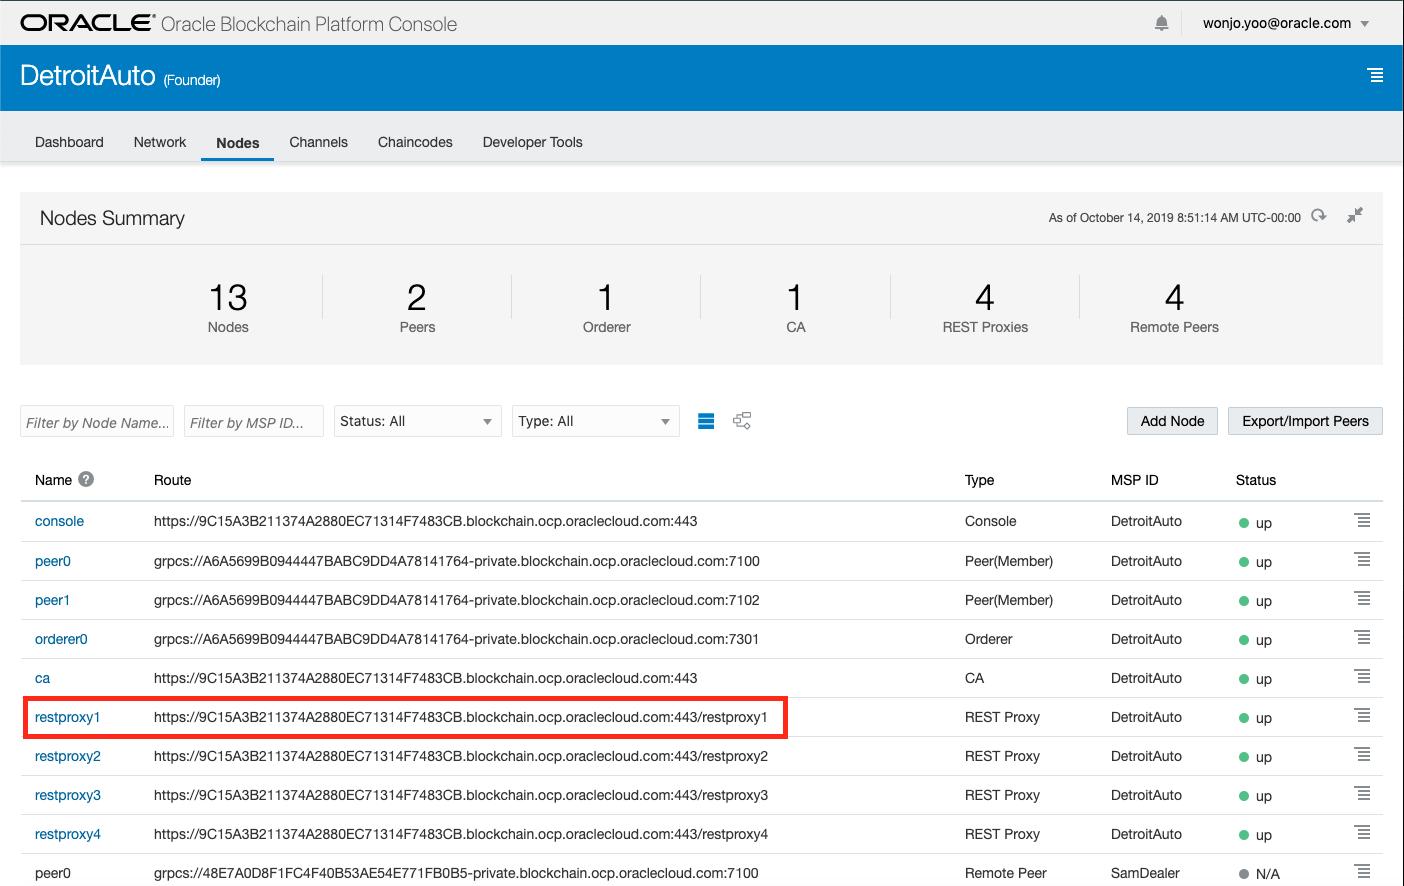
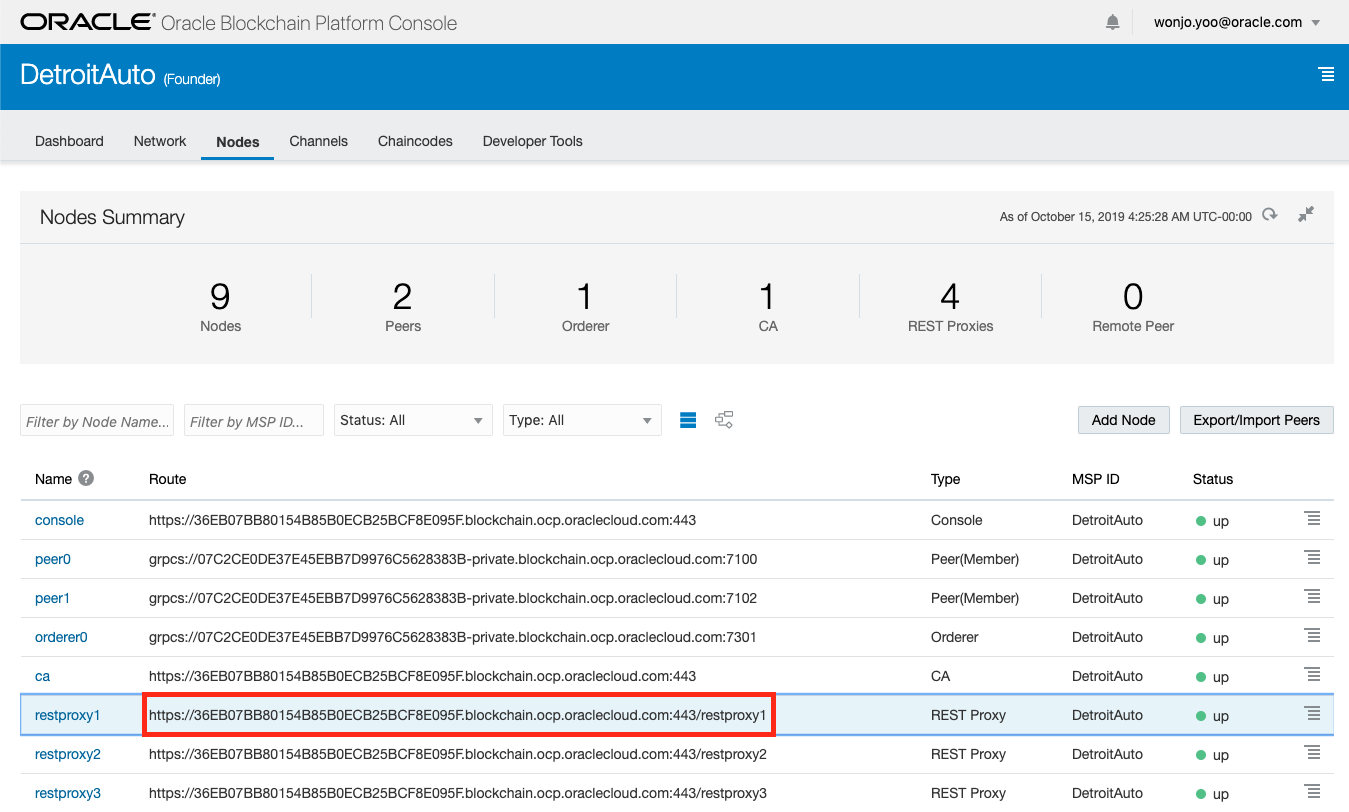
update

diff --git a/CarDealerLab/invoke_blockchain.md b/CarDealerLab/invoke_blockchain.md
@@ -10,6 +10,11 @@
     이 App은 제조업체인 Detroit와 파트너 업체인 Sam Dealer, Jude Dealer에서 사용하는 Vehicle Trace Dashboard 입니다. 이 App은 각각 Org의 Chaincode에 접근해서 해당 채널에 배포된 Ledger로 부터 Query를 해오고, 다른 업체로 부품을 전달하는 Transaction을 수행할 수 있는 기능을 제공합니다.
   
    딜러들은 거래를 제조업체와 공유하는 비공개 채널로 푸시합니다. "carTrace"이라는 Smart Contract(체인코드)에 의해 실행됩니다. 이 Smart Contract은 컨소시엄의 허가된 원장에 대한 모든 상태를 관할합니다. 해당 대리점의 "차량 추적 대시 보드"를 열고 포함된 부품 및 차량을 쿼리 할 때 사용하십시오.
+
+   이 Application의 호출 구조는 다음과 같습니다.
+
+        Node.js App --> Rest URL (DetroitAuto) --> peer의 Chaincode
+
 2. Application Tab 설명
    1. Add Part : 부품 입력
    2. Add Car : 차량 입력
@@ -19,37 +24,35 @@
    
 ### 2. 블록체인에 접속하기 위한 설정을 합니다.
 
-1) 화면 상단 우측의 아이콘을 클릭합니다.
-    ![](images/sample_app_setup1.png)
-
-2) 기존에 디폴트로 설정이 되어 있는 것을 확인합니다.
-    - REST Proxy Endpoint : REST API 주소입니다. 이 정보는 Founder Console(DetroitAuto) 에서 확인할 수 있습니다. 
-        - (Oracle Blockchain Cloud Service의 경우: `https://62C57E2D8944EBB48B1E6C5A28A461.blockchain.ocp.oraclecloud.com:443/restproxy`)
-    - Channel Name : 접속하고자 하는 채널 이름입니다. (예: **samchannel**, **judechannel**)
-    - UserName : 접속 아이디 (예: obpuser1)
-    - Password : 접속 패스워드 (예: `welcome1`)
-
-    지금은 수정할 내용이 없습니다.
-    현재 접속하는 Org는 DetroitAuto이고 Rest API도 DetroitAuto에 있는 것을 통해, samchannel을 사용한다는 것을 의미합니다.
-
-3) 다음과 같이 제목이 samchannel 인 것을 알 수 있습니다.
+3) 다음과 같이 현재 설정된 채널이 samchannel 인 것을 알 수 있습니다.
     ![](images/sample_app_setup2.png)
 
-4) 다음 정보를 넣고 쿼리를 해보세요. 
+1) Add Car, Add Part 탭에서 부품을 추가하거나 차량을 추가해서 다양한 테스트를 수행해 봅니다.<br>
+DetroitAuto에서 Airbag 부품(Part) 를 추가하고 SamDealer로 부품을 옮기는 Transaction 을 수행해보도록 하겠습니다.
+먼저 Add Part에서 airtbag 부품을 하나 입력해봅니다. 일련번호를 1111 이라고 입력하겠습니다.
+    ![](images/example1.png)
+2) 정상적으로 입력이 되면, Trace탭에서 조회를 할 수 있습니다. 일련번호 1111을 입력한 후 Query버튼을 누릅니다. <br>해당 내역이 조회가 되고 오른쪽에 json형태로 반환이 되는 것을 확인할 수 있습니다. 이 부분은 해당 key값을 갖고 있는 entity의 모든 변경 내역을 조회해서 json형태로 반환해주는 chaincode의 API를 호출한 결과입니다.
+    ![](images/example2.png)
 
-    참고 : 쉼표 ","를 사용하여 쿼리 필드에서 한 번에 여러 항목을 검색 할 수 있습니다.
+1) 이번에는 차량을 등록해 보도록 하겠습니다. car1234라는 일련번호를 입력하고, 제조사(manufacturer)에 DetroitAuto를 입력합니다. 나머지도 아래 그림과 동일하게 입력한 후 Add버튼을 누릅니다.
+    ![](images/example3.png)
 
-    에어백 일련 번호:
+1) 정상적으로 입력이 되면 Trace에서 내역을 확인할 수 있는데, 현재는 소유주(owner)가 DetroitAuto(제조사)에 있는 것을 확인할 수 있습니다.
+    ![](images/example4.png)
 
-    | abg1234, abg1235 |
-    | -- |
+1) Search 탭에서는 소유주(owner) 이름으로 조회할 수 있습니다.
+    ![](images/example5.png)
 
-    차량 번호:
+1) Transfer 탭에서 SamDealer로 소유주를 옮겨 보겠습니다. App내에서 DetroitAuto로 Login을 하기 위해 Company name을 detroitauto로 입력하고 비밀번호는 아무거나 입력한 후 Login버튼을 누릅니다.
+    ![](images/example6.png)
 
-    | dtrt10001, dtrt10002 |
-    | -- |
+1) chassis number of a vehicle 에 앞에서 생성한 차량번호 car1234를 입력하고 vehicle new owner에 SamDealer를 입력 한 후에 Transfer vehicle 버튼을 클릭합니다.
+    ![](images/example7.png)
+1) Chaincode의 returnCode로 정상 메세지인 Success가 반환된 것을 확인할 수 있습니다. Transaction ID로 같이 반환됩니다.
+    ![](images/example8.png)
+2) Trace탭에서 모든 내역들이 조회되는지 확인해보겠습니다. car1234를 입력하고 Query를 조회합니다. 이번에는 2개의 데이터가 조회된 것을 확인할 수 있습니다. 오른쪽에도 json형태로 두개의 transaction history가 모두 조회가 됩니다. 이처럼 blockchain에 데이터가 들어가게 되면 update를 하게 되더라도 모든 Transaction 내역은 남아 있고 삭제가 불가능하게 됩니다.
+    ![](images/example9.png)
 
-    위의 쿼리를 Jude Dealer의 대시 보드에서 수행하면 채널 프라이버시로 인해 결과가 조회되지 않습니다.
 
 ### 4. Jude Dealer의 채널로 접근합니다.
 
@@ -58,85 +61,33 @@
     - REST Proxy Endpoint : 변경하지 않습니다.
     - Channel Name : **judechannel**
     
-    ![](images/sample_app_setup3.png)
+    ![](images/jude_config.png)
 
 
-1) 다음과 같이 제목이 judechannel 로 바뀌었음을 알 수 있습니다.
-
-    ![](images/sample_app_setup4.png)
-
-1) 다음 정보를 넣고 쿼리를 해보세요. 
-   
-    VehiclePart 일련 번호 : 
-
-    | whl1241, win1242 | 
-    | -- |
-
-    > Detroit Auto Org 에서는 양쪽 채널의(samchannel, judechannel) 정보를 쿼리를 실행할 수 있습니다.
-
-
-2) 그리드에서 항목을 선택하면 해당 기록이 표시됩니다. 트랜잭션을 선택하면 항목의 내역 상태가 자세히 표시됩니다.
-
-    > 참고 : 그래프에는 현재 시간보다 45 일 이내에 실행된 트랜잭션만 표시됩니다. 최근 거래를 보려면 그래프의 현재 날짜로 스크롤해야 할 수 있습니다.
-
-    ![](images/sampleapp1.png)
-
------
-
-## B. Transaction 실행하기
-1. 다시 Sam Dealer의 samchannel 채널로 설정합니다. 화면 상단 우측의 아이콘을 클릭하여 Sam 이 사용하는 채널로 설정합니다.
-    - REST Proxy Endpoint : 위에서 설정한 동일 REST URL을 사용합니다.
-    - Channel Name : **samchannel**
-
-    ![](images/sample_app_setup5.png)
-
-
-
-2. "Vehicle Trace Dashboard"를 열고 **transfer**탭을 선택하여 트랜잭션을 실행하십시오.
-   이전 Lab에서 Postman으로 초기화 작업을 수행하여 챠량번호 dtrt10001인 차량은 현재 Detroit Auto의 소유가 되어 있습니다. 
-    **Detroit Auto**에서 **samdealer**로 **dtrt10001**를 전송해 보겠습니다.
-
-3. 사용자 이름 **DetroitAuto**와 아무 비밀번호나 넣고 로그인하십시오.
-    ![](images/transfer1.png)
-
-4. 차량 번호로 **dtrt10001**을 입력하십시오(Chassis number of a vehicle). 
-    Vehicle **new owner**로 **SamDealer**를 입력하십시오. 
-    그런 다음 **Transfer Vehicle** 버튼을 클릭하십시오.
-    ![](images/transfer3.png)
-
-5. 다시 Trace 탭으로 이동해서 **dtrt10001** 를 조회해서 해당 차량의 Transaction History를 확인할 수 있습니다. <br>
-   owner가 **samdealer**로 변경되었고, Transaction도 새롭게 하나 더 추가된 것을 확인할 수 있습니다.<br>
-   오른쪽의 API Details에서와 같이 API 호출 시에 JSON 형태로 History 데이터가 반환되는 것을 확인할 수 있습니다.
-   ![](images/transfer4.png)
-
-
------
-
-## C. REST API를 통해 Transaction 실행
+2) 다음과 같이 제목이 judechannel 로 바뀌었음을 알 수 있습니다. 여기에서 samchannel에서 입력한 car1234를 조회해보면 각 채널별로 chaincode의 데이터에 접근하는 것이 분리되어 있기 때문에 조회가 되지 않습니다. 
+    ![](images/jude_config2.png)
+---
+## C. REST API를 통해 Transaction 실행 - 옵션
+**아래 Lab은 시간이 되시는 경우 확인해 보시면 좋습니다.**
 
 CarTrace의 모든 트랜잭션은 REST API로 호출할 수 있습니다.
 REST 호출을 실행할 때 두 가지 옵션이 있습니다.
-- Postman과 같은 Tool 사용
-- 터미널에서 "curl" 명령 사용
+- Postman과 같은 Tool 사용 : ([다운로드](https://www.getpostman.com/apps))
+- 터미널에서 "curl" 명령 사용 (Windows에서는 curl 다운로드 필요 https://curl.haxx.se/download.html)
 
-Postman은 앞서 기초 데이터를 넣을 때 이미 사용했습니다.
-배포된 곳에 Query를 위한 샘플용 request가 들어 있습니다.
+([PostMan환경파일](https://raw.githubusercontent.com/OracleCloudKr/OracleBlockchain_Workshop2/master/CarDealerLab/artifacts/OBP_WORKSHOP_ENV.postman_environment.json))
+
+([PostMan collection](https://raw.githubusercontent.com/OracleCloudKr/OracleBlockchain_Workshop2/master/CarDealerLab/artifacts/OBP_Workshop.postman_collection.json))
+
+위 파일을 Download 한 후 Postman에 import를 하시면 Query를 위한 샘플용 request가 들어 있습니다.
 
 1. 왼쪽 request들 가장 아래 부분에 Query Vehicle 이라는 request를 선택하십시오.
 ![](images/postman_queryhistory.png)
 
-1. 오른쪽 입력파라미터 중 args로 위에서 사용한 차량번호 **dtrt10001**를 입력합니다.
+1. 오른쪽 입력파라미터 중 args로 위에서 사용한 차량번호 **car1234**를 입력합니다.
     send를 누르면 결과가 차량 history에 대한 결과가 json 형태로 반환됩니다.
 
     위 결과는 curl 명령어를 사용해도 동일한 결과를 얻을 수 있습니다.
-
-## D. 기타 Application Transaction 테스트
-Add Car, Add Part 탭에서 부품을 추가하거나 차량을 추가해서 다양한 테스트를 수행해 봅니다.<br>
-다음은 DetroitAuto에서 Airbag 부품(Part) 를 추가하고 SamDealer로 부품을 옮기는 Transaction 테스트의 예시입니다.
-    ![](images/partmove1.png)
-    ![](images/partmove2.png)
-    ![](images/partmove3.png)
-    ![](images/partmove4.png)
 
 ---
 <b>수고하셨습니다. 모든 Lab 과정을 끝내셨습니다.</b>

diff --git a/CarDealerLab/create_sampleapp.md b/CarDealerLab/create_sampleapp.md
@@ -12,17 +12,32 @@ node.js 용 web application ([다운로드](https://github.com/OracleCloudKr/Ora
 윈도우의 경우 방화벽 오픈을 위해 다음과 같은 메세지가 나오게 되는데 이때 액세스 허용을 눌러 줍니다.
 ![](images/firewall.png)
 
-2) 화면에서 다음과 같이 나오게 되면 8000 포트로 web application이 정상적으로 Listen하며 서비스가 되게 됩니다.
+2) 화면에서 다음과 같이 나오게 되면 8000 포트로 web application이 정상적으로 Listen하며 서비스가 되게 됩니다.<br>
 PORT: 8000, PROTOCOL: http
 
 3) 이제 브라우저를 열고 해당 포트로 접속해 봅니다.
 http://localhost:8000/
-![](images/webapp_init.png)
 
 4) 오른쪽 상단의 동그라미 설정 버튼을 눌러 환경설정 화면으로 이동합니다.
+![](images/webapp_init.png)
 
-5) 먼저 REST API의 주소를 확인해야 합니다. DetroitAuto의 Console로 이동해서 Nodes 탭을 선택한 후 restproxy1의 주소를 복사합니다.
+1) 여기에서 REST Proxy Endpoint는 DetroitAuto에서 제공하는 REST Proxy의 주소를 입력해야 합니다.
+![](images/webapp_configure.png)
+
+1) 먼저 REST API의 주소를 확인하기 위해 DetroitAuto의 Console로 이동해서 Nodes 탭을 선택한 후 restproxy1의 주소를 복사합니다. 여기서 restproxy1은 제외하고 복사합니다.
 ![](images/check_restURL.png)
-1) 
+
+1) REST Proxy주소를 위에서 복사한 주소로 붙여 넣습니다. 이때 뒤에 공백이 들어가지 않도록 주의합니다.<br>
+    - REST Proxy Endpoint : REST API 주소입니다. 이 정보는 Founder Console(DetroitAuto) 에서 확인할 수 있습니다. 
+      - (Oracle Blockchain Cloud Service의 경우: `https://62C57E2D8944EBB48B1E6C5A28A461.blockchain.ocp.oraclecloud.com:443`)
+      - 주의: 위 주소에서 /restproxy1은 제외해야 합니다.
+    - Channel Name : 접속하고자 하는 채널 이름입니다. (예: **samchannel**, **judechannel**) 
+    - UserName : oracle cloud 접속 아이디 
+    - Password : 패스워드
+ - channel 이름은 samchannel로 설정해서 먼저 확인을 해보겠습니다. <br>
+ 
+![](images/webapp_configure2.png)
+
+이제 Application을 확인할 준비가 되었습니다.
 ---
 [이전 Lab으로 이동](README.md)

diff --git a/CarDealerLab/createchannel.md b/CarDealerLab/createchannel.md
@@ -73,6 +73,16 @@ Founder가 다른 Org를 Transaction 의 endorser로 포함 시키려면 어떤 
 7. 위 과정이 모두 정상적으로 완료되면 다른 Org의 Peer 노드가 Founder의 Nodes 목록에 나타나야 합니다. MSP(Membership Service Provider)를 통해 네트워크에 속한 조직을 추적할 수 있습니다.
 ![](images/participant_export8.png)
 
+1. Client에서 호출을 할때는 REST Proxy를 통해서 호출을 하게 되게 되는데, Proxy에서 각 peer로 Balancing을 하게 됩니다. 이때 여기에 등록이 되어 있지 않게 되면 request를 보내지 못하게 되므로 방금전에 추가해준 다른 Org의 peer들도 Rest Proxy에 등록을 하는 과정을 수행해야 합니다.
+   
+2. DetroitAuto의 Nodes탭에서 Restproxy1의 edit configuration을 선택하십시오.
+![](images/participant_export11.png)
+![](images/participant_export9.png)
+
+2. judechannel에는 JudeDealer의 peer들을 추가하고, samchannel에는 SamDealer들의 peer들을 추가합니다. 
+여기에서 추가를 하게 되면 chaincode호출시에 Detroit Auto의 rest proxy를 통해서 각 peer들에게 요청이 들어갈 수 있게 됩니다.
+![](images/participant_export10.png)
+
 ## C. Network구성 Review하기
 지금까지 구축한 네트워크에 대한 구성도를 Founder "Nodes" 탭으로 이동하여 확인할 수 있습니다. Dealer의 피어 노드뿐 아니라 Detroitauto 노드가 목록에 있는지 확인하십시오. <br>
 그런 다음 아래 그림의 빨간색으로 표시된 토폴로지 보기 버튼을 클릭하십시오.
